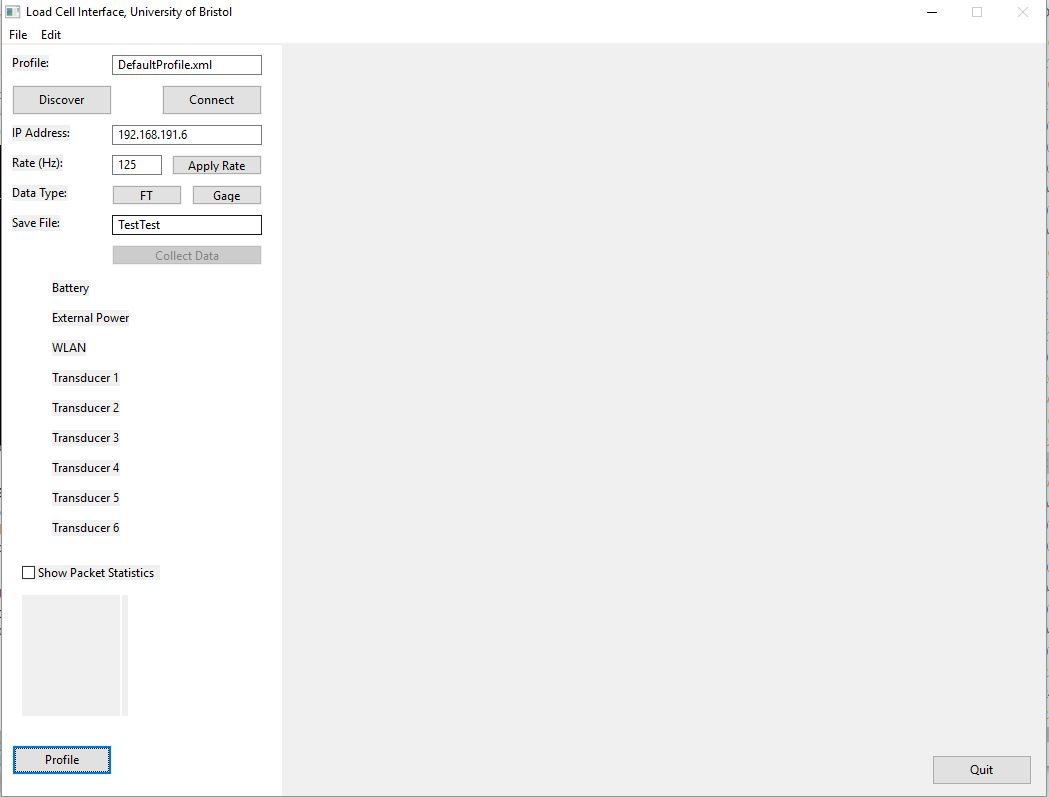
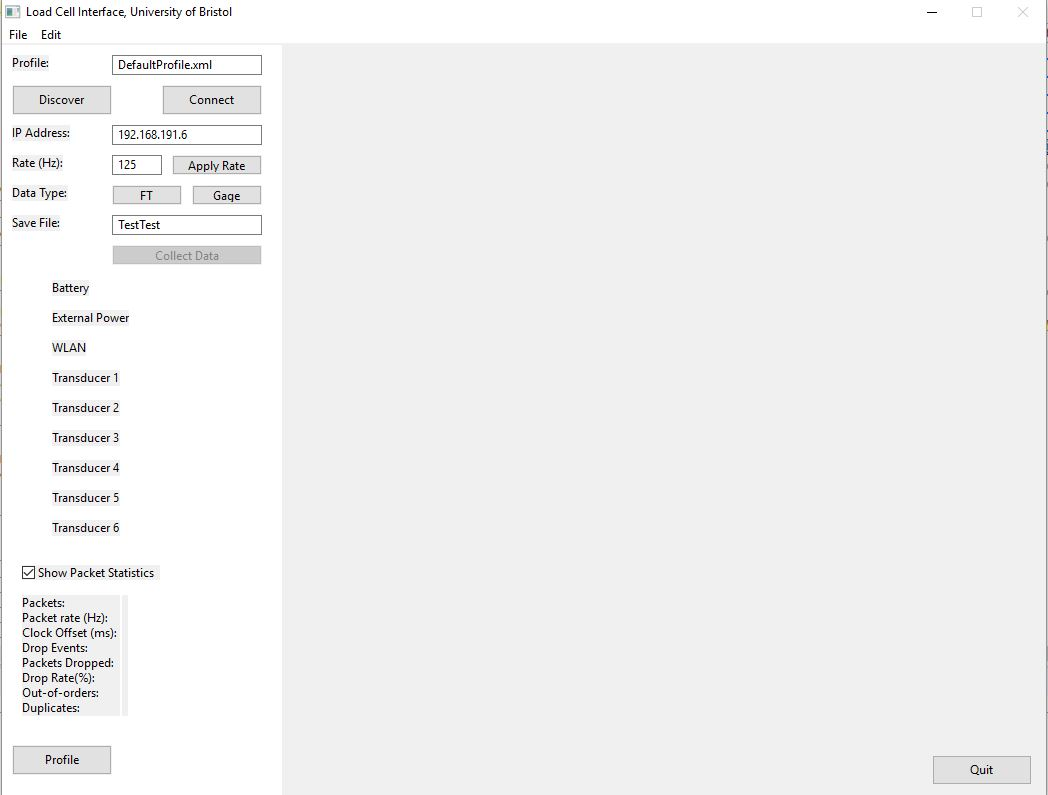
Continuation - finished major parts of the GUI

diff --git a/newAPCGUI.py b/newAPCGUI.py
@@ -2,6 +2,7 @@ import wx
 import time
 import datetime
 import threading
+from LEDIndicatorGUI import LED
 
 class mainWindow(wx.Frame):
     
@@ -342,6 +343,16 @@ class mainWindow(wx.Frame):
         self.row9.Add(self.buttonSaveLog, proportion = 1, flag = wx.EXPAND|wx.ALL, border = 5)
         self.panel8.SetSizerAndFit(self.row9)
         
+        self.panelSizerV1 = wx.BoxSizer(wx.VERTICAL)
+        self.panelSizerV1.Add(self.panel1, proportion = 0, flag = wx.EXPAND)
+        self.panelSizerV1.Add(self.panel2, proportion = 0, flag = wx.EXPAND)
+        self.panelSizerV1.Add(self.panel3, proportion = 0, flag = wx.EXPAND)
+        self.panelSizerV1.Add(self.panel4, proportion = 0, flag = wx.EXPAND)
+        self.panelSizerV1.Add(self.panel5, proportion = 0, flag = wx.EXPAND)
+        self.panelSizerV1.Add(self.panel6, proportion = 0, flag = wx.EXPAND)
+        self.panelSizerV1.Add(self.panel7, proportion = 1, flag = wx.EXPAND)
+        self.panelSizerV1.Add(self.panel8, proportion = 0, flag = wx.EXPAND)
+        
         self.panel9 = wx.Panel(self)
         
         self.textLoadCellProfile = wx.StaticText(self.panel9, label = "Load cell profile:", style = wx.ALIGN_LEFT)
@@ -360,11 +371,15 @@ class mainWindow(wx.Frame):
         self.controlSaveFile = wx.TextCtrl(self.panel9, size = (150,23), value = "")
         self.buttonCollectData = wx.Button(self.panel9, label="Collect data", size = (100,30))
         
-        #self.Drawcircle(self.panel9)
-        #self.panel9.Bind(wx.EVT_PAINT, self.Drawcircle)
-        #self.Bind(wx.EVT_PAINT, self.Drawcircle)
-        #self.circle = self.Drawcircle()
-        self.Drawcircle()
+        self.panelLED1 = LED(self)
+        self.panelLED2 = LED(self)
+        self.panelLED3 = LED(self)
+        self.panelLED4 = LED(self)
+        self.panelLED5 = LED(self)
+        self.panelLED6 = LED(self)
+        self.panelLED7 = LED(self)
+        self.panelLED8 = LED(self)
+        self.panelLED9 = LED(self)
         
         self.column4 = wx.BoxSizer(wx.VERTICAL)
         self.row10 = wx.BoxSizer(wx.HORIZONTAL)
@@ -400,37 +415,163 @@ class mainWindow(wx.Frame):
         self.column4.Add(self.row14, proportion = 0, flag = wx.EXPAND|wx.ALL, border = 0)
         self.column4.Add(self.row15, proportion = 0, flag = wx.EXPAND|wx.ALL, border = 0)
         self.column4.Add(self.row16, proportion = 0, flag = wx.EXPAND|wx.ALL, border = 0)
-        #self.column4.Add(self.circle, proportion = 0, flag = wx.EXPAND|wx.ALL, border = 0)
         self.panel9.SetSizerAndFit(self.column4)
         
+        self.panel10 = wx.Panel(self)
         
-        self.panelSizerV = wx.BoxSizer(wx.VERTICAL)
-        self.panelSizerV.Add(self.panel1, proportion = 0, flag = wx.EXPAND)
-        self.panelSizerV.Add(self.panel2, proportion = 0, flag = wx.EXPAND)
-        self.panelSizerV.Add(self.panel3, proportion = 0, flag = wx.EXPAND)
-        self.panelSizerV.Add(self.panel4, proportion = 0, flag = wx.EXPAND)
-        self.panelSizerV.Add(self.panel5, proportion = 0, flag = wx.EXPAND)
-        self.panelSizerV.Add(self.panel6, proportion = 0, flag = wx.EXPAND)
-        self.panelSizerV.Add(self.panel7, proportion = 1, flag = wx.EXPAND)
-        self.panelSizerV.Add(self.panel8, proportion = 0, flag = wx.EXPAND)
+        self.textBattery        = wx.StaticText(self.panel10, label = "Battery", style = wx.ALIGN_LEFT)
+        self.textBatterySizer   = wx.BoxSizer(wx.HORIZONTAL)
+        self.textBatterySizer.Add(self.textBattery, proportion = 0, flag = wx.ALIGN_CENTRE_VERTICAL|wx.ALL, border = 0)
+        self.textExternalPower  = wx.StaticText(self.panel10, label = "External power", style = wx.ALIGN_LEFT)
+        self.textExternalPowerSizer   = wx.BoxSizer(wx.HORIZONTAL)
+        self.textExternalPowerSizer.Add(self.textExternalPower, proportion = 0, flag = wx.ALIGN_CENTRE_VERTICAL|wx.ALL, border = 0)
+        self.textWLAN           = wx.StaticText(self.panel10, label = "WLAN", style = wx.ALIGN_LEFT)
+        self.textWLANSizer   = wx.BoxSizer(wx.HORIZONTAL)
+        self.textWLANSizer.Add(self.textWLAN, proportion = 0, flag = wx.ALIGN_CENTRE_VERTICAL|wx.ALL, border = 0)
+        self.textTransducer1    = wx.StaticText(self.panel10, label = "Transducer 1", style = wx.ALIGN_LEFT)
+        self.textTransducer1Sizer   = wx.BoxSizer(wx.HORIZONTAL)
+        self.textTransducer1Sizer.Add(self.textTransducer1, proportion = 0, flag = wx.ALIGN_CENTRE_VERTICAL|wx.ALL, border = 0)
+        self.textTransducer2    = wx.StaticText(self.panel10, label = "Transducer 2", style = wx.ALIGN_LEFT)
+        self.textTransducer2Sizer   = wx.BoxSizer(wx.HORIZONTAL)
+        self.textTransducer2Sizer.Add(self.textTransducer2, proportion = 0, flag = wx.ALIGN_CENTRE_VERTICAL|wx.ALL, border = 0)
+        self.textTransducer3    = wx.StaticText(self.panel10, label = "Transducer 3", style = wx.ALIGN_LEFT)
+        self.textTransducer3Sizer   = wx.BoxSizer(wx.HORIZONTAL)
+        self.textTransducer3Sizer.Add(self.textTransducer3, proportion = 0, flag = wx.ALIGN_CENTRE_VERTICAL|wx.ALL, border = 0)
+        self.textTransducer4    = wx.StaticText(self.panel10, label = "Transducer 4", style = wx.ALIGN_LEFT)
+        self.textTransducer4Sizer   = wx.BoxSizer(wx.HORIZONTAL)
+        self.textTransducer4Sizer.Add(self.textTransducer4, proportion = 0, flag = wx.ALIGN_CENTRE_VERTICAL|wx.ALL, border = 0)
+        self.textTransducer5    = wx.StaticText(self.panel10, label = "Transducer 5", style = wx.ALIGN_LEFT)
+        self.textTransducer5Sizer   = wx.BoxSizer(wx.HORIZONTAL)
+        self.textTransducer5Sizer.Add(self.textTransducer5, proportion = 0, flag = wx.ALIGN_CENTRE_VERTICAL|wx.ALL, border = 0)
+        self.textTransducer6    = wx.StaticText(self.panel10, label = "Transducer 6", style = wx.ALIGN_LEFT)
+        self.textTransducer6Sizer   = wx.BoxSizer(wx.HORIZONTAL)
+        self.textTransducer6Sizer.Add(self.textTransducer6, proportion = 0, flag = wx.ALIGN_CENTRE_VERTICAL|wx.ALL, border = 0)
+        
+        self.column5 = wx.BoxSizer(wx.VERTICAL)
+        self.column5.Add(self.textBatterySizer,          proportion = 1, flag = wx.EXPAND|wx.ALL, border = 0)
+        self.column5.Add(self.textExternalPowerSizer,    proportion = 1, flag = wx.EXPAND|wx.ALL, border = 0)
+        self.column5.Add(self.textWLANSizer,             proportion = 1, flag = wx.EXPAND|wx.ALL, border = 0)
+        self.column5.Add(self.textTransducer1Sizer,      proportion = 1, flag = wx.EXPAND|wx.ALL, border = 0)
+        self.column5.Add(self.textTransducer2Sizer,      proportion = 1, flag = wx.EXPAND|wx.ALL, border = 0)
+        self.column5.Add(self.textTransducer3Sizer,      proportion = 1, flag = wx.EXPAND|wx.ALL, border = 0)
+        self.column5.Add(self.textTransducer4Sizer,      proportion = 1, flag = wx.EXPAND|wx.ALL, border = 0)
+        self.column5.Add(self.textTransducer5Sizer,      proportion = 1, flag = wx.EXPAND|wx.ALL, border = 0)
+        self.column5.Add(self.textTransducer6Sizer,      proportion = 1, flag = wx.EXPAND|wx.ALL, border = 0)
+        self.panel10.SetSizerAndFit(self.column5)
+        
+        self.panelSizerV2 = wx.BoxSizer(wx.VERTICAL)
+        self.panelSizerV2.Add(self.panelLED1, proportion = 1, flag = wx.EXPAND)
+        self.panelSizerV2.Add(self.panelLED2, proportion = 1, flag = wx.EXPAND)
+        self.panelSizerV2.Add(self.panelLED3, proportion = 1, flag = wx.EXPAND)
+        self.panelSizerV2.Add(self.panelLED4, proportion = 1, flag = wx.EXPAND)
+        self.panelSizerV2.Add(self.panelLED5, proportion = 1, flag = wx.EXPAND)
+        self.panelSizerV2.Add(self.panelLED6, proportion = 1, flag = wx.EXPAND)
+        self.panelSizerV2.Add(self.panelLED7, proportion = 1, flag = wx.EXPAND)
+        self.panelSizerV2.Add(self.panelLED8, proportion = 1, flag = wx.EXPAND)
+        self.panelSizerV2.Add(self.panelLED9, proportion = 1, flag = wx.EXPAND)
+        
+        self.panel12 = wx.Panel(self)
+        
+        self.boxTitle = wx.StaticBox(self.panel12, -1, "Measurement \n(load cell axes)")
+        self.textX = wx.StaticText(self.panel12, label = "X =", style = wx.ALIGN_RIGHT)
+        self.textY = wx.StaticText(self.panel12, label = "Y =", style = wx.ALIGN_RIGHT)
+        self.textZ = wx.StaticText(self.panel12, label = "Z =", style = wx.ALIGN_RIGHT)
+        self.textL = wx.StaticText(self.panel12, label = "L =", style = wx.ALIGN_RIGHT)
+        self.textM = wx.StaticText(self.panel12, label = "M =", style = wx.ALIGN_RIGHT)
+        self.textN = wx.StaticText(self.panel12, label = "N =", style = wx.ALIGN_RIGHT)
+        self.textXReading = wx.StaticText(self.panel12, label = "0", style = wx.ALIGN_RIGHT)
+        self.textYReading = wx.StaticText(self.panel12, label = "0", style = wx.ALIGN_RIGHT)
+        self.textZReading = wx.StaticText(self.panel12, label = "0", style = wx.ALIGN_RIGHT)
+        self.textLReading = wx.StaticText(self.panel12, label = "0", style = wx.ALIGN_RIGHT)
+        self.textMReading = wx.StaticText(self.panel12, label = "0", style = wx.ALIGN_RIGHT)
+        self.textNReading = wx.StaticText(self.panel12, label = "0", style = wx.ALIGN_RIGHT)
+        self.textXUnit = wx.StaticText(self.panel12, label = "N", style = wx.ALIGN_LEFT)
+        self.textYUnit = wx.StaticText(self.panel12, label = "N", style = wx.ALIGN_LEFT)
+        self.textZUnit = wx.StaticText(self.panel12, label = "N", style = wx.ALIGN_LEFT)
+        self.textLUnit = wx.StaticText(self.panel12, label = "Nm", style = wx.ALIGN_LEFT)
+        self.textMUnit = wx.StaticText(self.panel12, label = "Nm", style = wx.ALIGN_LEFT)
+        self.textNUnit = wx.StaticText(self.panel12, label = "Nm", style = wx.ALIGN_LEFT)
+        self.buttonShowLoadsGraph = wx.Button(self.panel12, label="Show graph", size = (100,30))
+        
+        self.column6 = wx.BoxSizer(wx.VERTICAL)
+        self.column6.Add(self.textX, proportion = 1, flag = wx.EXPAND|wx.ALL, border = 5)
+        self.column6.Add(self.textY, proportion = 1, flag = wx.EXPAND|wx.ALL, border = 5)
+        self.column6.Add(self.textZ, proportion = 1, flag = wx.EXPAND|wx.ALL, border = 5)
+        self.column6.Add(self.textL, proportion = 1, flag = wx.EXPAND|wx.ALL, border = 5)
+        self.column6.Add(self.textM, proportion = 1, flag = wx.EXPAND|wx.ALL, border = 5)
+        self.column6.Add(self.textN, proportion = 1, flag = wx.EXPAND|wx.ALL, border = 5)
+        self.column7 = wx.BoxSizer(wx.VERTICAL)
+        self.column7.Add(self.textXReading, proportion = 1, flag = wx.EXPAND|wx.ALL, border = 5)
+        self.column7.Add(self.textYReading, proportion = 1, flag = wx.EXPAND|wx.ALL, border = 5)
+        self.column7.Add(self.textZReading, proportion = 1, flag = wx.EXPAND|wx.ALL, border = 5)
+        self.column7.Add(self.textLReading, proportion = 1, flag = wx.EXPAND|wx.ALL, border = 5)
+        self.column7.Add(self.textMReading, proportion = 1, flag = wx.EXPAND|wx.ALL, border = 5)
+        self.column7.Add(self.textNReading, proportion = 1, flag = wx.EXPAND|wx.ALL, border = 5)
+        self.column8 = wx.BoxSizer(wx.VERTICAL)
+        self.column8.Add(self.textXUnit, proportion = 1, flag = wx.EXPAND|wx.ALL, border = 5)
+        self.column8.Add(self.textYUnit, proportion = 1, flag = wx.EXPAND|wx.ALL, border = 5)
+        self.column8.Add(self.textZUnit, proportion = 1, flag = wx.EXPAND|wx.ALL, border = 5)
+        self.column8.Add(self.textLUnit, proportion = 1, flag = wx.EXPAND|wx.ALL, border = 5)
+        self.column8.Add(self.textMUnit, proportion = 1, flag = wx.EXPAND|wx.ALL, border = 5)
+        self.column8.Add(self.textNUnit, proportion = 1, flag = wx.EXPAND|wx.ALL, border = 5)
+        self.row18 = wx.StaticBoxSizer(self.boxTitle, wx.HORIZONTAL)
+        self.row18.Add(self.column6, proportion = 1, flag = wx.EXPAND|wx.ALL, border = 0)
+        self.row18.Add(self.column7, proportion = 1, flag = wx.EXPAND|wx.ALL, border = 0)
+        self.row18.Add(self.column8, proportion = 1, flag = wx.EXPAND|wx.ALL, border = 0)
+        self.column9 = wx.BoxSizer(wx.VERTICAL)
+        self.column9.Add(self.row18, proportion = 1, flag = wx.EXPAND|wx.ALL, border = 0)
+        self.column9.Add(self.buttonShowLoadsGraph, proportion = 0, flag = wx.EXPAND|wx.ALL, border = 0)
+        self.panel12.SetSizerAndFit(self.column9)
+        
+        self.row17 = wx.BoxSizer(wx.HORIZONTAL)
+        self.row17.Add(self.panelSizerV2, proportion = 2, flag = wx.EXPAND|wx.ALL, border = 0)
+        self.row17.Add(self.panel10, proportion = 4, flag = wx.EXPAND|wx.ALL, border = 0)
+        self.row17.Add(self.panel12, proportion = 0, flag = wx.EXPAND|wx.ALL, border = 0)
+        
+        self.panel11 = wx.Panel(self)
+        self.panel11.SetDoubleBuffered(True)
+        
+        text = "Packets: \nPacket rate (Hz): \nClock offset (ms): \nDrop events: \nPackets dropped: \nDrop rate (%): \nOut-of-orders: \nDuplicates:"
+        self.textLoadCellPacketStats = wx.StaticText(self.panel11, label = text, style = wx.ALIGN_LEFT)
+        self.buttonStartNTPServer = wx.Button(self.panel11, label="Start NTP server", size = (100,30))
+        self.buttonStopNTPServer = wx.Button(self.panel11, label="Stop NTP server", size = (100,30))
+        self.textSycRequestReceived = wx.StaticText(self.panel11, label = "No. sync requests received:", style = wx.ALIGN_LEFT)
+        self.textNoSycRequestReceived = wx.StaticText(self.panel11, label = "0", style = wx.ALIGN_LEFT)
+        self.buttonProfile = wx.Button(self.panel11, label="Profile", size = (100,30))
+        
+        self.column6 = wx.BoxSizer(wx.VERTICAL)
+        self.column6.Add(self.textLoadCellPacketStats, proportion = 1, flag = wx.EXPAND|wx.ALL, border = 15)
+        self.row19 = wx.BoxSizer(wx.HORIZONTAL)
+        self.row19.Add(self.buttonStartNTPServer, proportion = 1, flag = wx.EXPAND|wx.ALL, border = 0)
+        self.row19.Add(self.buttonStopNTPServer, proportion = 1, flag = wx.EXPAND|wx.ALL, border = 0)
+        self.column6.Add(self.row19, proportion = 0, flag = wx.EXPAND|wx.ALL, border = 5)
+        self.row20 = wx.BoxSizer(wx.HORIZONTAL)
+        self.row20.Add(self.textSycRequestReceived, proportion = 2, flag = wx.ALIGN_CENTRE_VERTICAL|wx.ALL, border = 0)
+        self.row20.Add(self.textNoSycRequestReceived, proportion = 1, flag = wx.ALIGN_CENTRE_VERTICAL|wx.ALL, border = 0)
+        self.column6.Add(self.row20, proportion = 0, flag = wx.EXPAND|wx.ALL, border = 5)
+        self.column6.Add(self.buttonProfile, proportion = 0, flag = wx.EXPAND|wx.ALL, border = 5)
+        self.panel11.SetSizerAndFit(self.column6)
+        
+        self.panelSizerV3 = wx.BoxSizer(wx.VERTICAL)
+        self.panelSizerV3.Add(self.panel9, proportion = 0, flag = wx.EXPAND)
+        self.panelSizerV3.Add(self.row17, proportion = 1, flag = wx.EXPAND)
+        self.panelSizerV3.Add(self.panel11, proportion = 1, flag = wx.EXPAND)
+        
         self.panelSizerH = wx.BoxSizer(wx.HORIZONTAL)
-        self.panelSizerH.Add(self.panelSizerV, proportion = 0, flag = wx.EXPAND)
-        self.panelSizerH.Add(self.panel9, proportion = 1, flag = wx.EXPAND)
+        self.panelSizerH.Add(self.panelSizerV1, proportion = 0, flag = wx.EXPAND)
+        self.panelSizerH.Add(self.panelSizerV3, proportion = 1, flag = wx.EXPAND)
         self.SetSizerAndFit(self.panelSizerH)
         
     def _bindEvents(self):
         
         self.Bind(wx.EVT_BUTTON, self._test, self.buttonResetRigPosition)
         self.Bind(wx.EVT_MENU, self._onExit, self.menuItemExit)
+        self.panelLED1.Bind(wx.EVT_SIZE, self._refresh)
         
     
-    def Drawcircle(self):
+    def _refresh(self, event):
         
-        dc = wx.ClientDC(self.panel9)
-        #dc.Clear()
-        dc.SetBrush(wx.Brush(wx.Colour(255,255,255))) 
-        circle = dc.DrawCircle(100,100,50)
-        return circle
+        self.Refresh()
         
         
     def _onExit(self, event):
@@ -471,8 +612,12 @@ class mainWindow(wx.Frame):
                 ts = time.time()
                 st = datetime.datetime.fromtimestamp(ts).strftime('%Y-%m-%d %H:%M:%S.%f')
                 self.textData.SetLabel(st + '\n' + st + '\n' + st)
+                self.panelLED1.colour = wx.Colour(255,0,0)
+                self.panelLED1.Refresh()
                 #time.sleep(0.0001)
             else:
+                self.panelLED1.colour = wx.Colour(0,0,0)
+                self.panelLED1.Refresh()
                 break
         return
                 

diff --git a/LEDIndicatorGUI.py b/LEDIndicatorGUI.py
@@ -1,0 +1,20 @@
+import wx
+
+class LED(wx.Panel):
+    
+    def __init__(self, parent):
+        
+        wx.Panel.__init__(self, parent)
+        self.SetDoubleBuffered(True)
+        self.Bind(wx.EVT_PAINT, self.on_paint)
+        self.colour = wx.Colour(0,0,0)
+
+    def on_paint(self, event):
+        
+        w,h = self.GetSize()
+        self.dc = wx.PaintDC(self)
+        self.dc.Clear()
+        #self.PrepareDC(self.dc)
+        self.dc.SetPen(wx.Pen(wx.BLACK, 1))
+        self.dc.SetBrush(wx.Brush(self.colour))
+        self.dc.DrawCircle(w/2,h/2,12)
